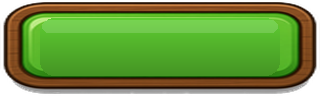
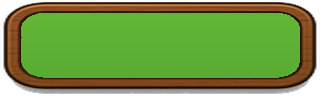
Fix person-card A buttons: single face chrome and 2% live inset
Rebuild chrome as wood rim plus one flat face with no baked labels or
dark lip, and align the live text overlay to wood-inner + 2% on all sides.

Changed region(s): [[0.0625, 0.125, 0.9375, 0.8125]]

diff --git a/docs/mockups/personen-action-card/index.html b/docs/mockups/personen-action-card/index.html
@@ -126,10 +126,17 @@
   .actions .cost-btn:nth-child(3) { grid-column: 6; }
 
   /*
-   * Button füllt die Grid-Zelle 1:1 (kein container-type am Button —
-   * das verhindert Stretch). Innen-Wrapper für dynamische Schrift.
+   * Chrome-PNG: nur Holzrahmen + eine saubere Farbfläche (kein gebackenes Label).
+   * Live-Text im .inner — 2% Abstand zu allen Innenkanten des Holzrahmens.
+   * Holz-Rims müssen zu btn-*-chrome.png passen (siehe Generator).
    */
   .cost-btn {
+    /* Gemessen am Chrome: Innenkante Holzrahmen → Face (eine Fläche, kein Label) */
+    --wood-x: 6.41%;
+    --wood-y-top: 13.54%;
+    --wood-y-bot: 18.75%;
+    /* Live-Text: zusätzlich ~2% der Button-Breite/-Höhe zu allen Innenrändern */
+    --inset: 2%;
     appearance: none;
     border: 0;
     margin: 0;
@@ -146,22 +153,27 @@
     cursor: pointer;
     overflow: hidden;
     display: block;
+    position: relative;
   }
   .cost-btn.kaufen { background-image: url("btn-kaufen-chrome.png"); }
   .cost-btn.upgrade { background-image: url("btn-upgrade-chrome.png"); }
   .cost-btn.senden { background-image: url("btn-senden-chrome.png"); }
 
-  /* Zwei Zeilen: Verb oben, Kosten unten — Holzränder über dicke Chrome-Rims */
+  /* Overlay: Holz-Innenrand + 2% (Breite für L/R, Höhe für T/B) */
   .cost-btn .inner {
-    width: 100%;
-    height: 100%;
+    position: absolute;
+    left: calc(var(--wood-x) + var(--inset));
+    right: calc(var(--wood-x) + var(--inset));
+    top: calc(var(--wood-y-top) + var(--inset));
+    bottom: calc(var(--wood-y-bot) + var(--inset));
     display: flex;
     flex-direction: column;
     flex-wrap: nowrap;
     align-items: center;
     justify-content: center;
-    gap: 0.28em;
-    padding: 18% 16% 16%; /* Text innerhalb der Farbfläche, nicht auf dem Holzrand */
+    gap: 0.3em;
+    margin: 0;
+    padding: 0;
     color: #fff;
     font-weight: 900;
     font-family: inherit;
@@ -169,6 +181,8 @@
     container-type: inline-size;
     font-size: clamp(9px, 12cqw, 14px);
     overflow: hidden;
+    background: transparent; /* kein zweites Farbfeld */
+    box-shadow: none;
   }
   .cost-btn .txt,
   .cost-btn .pay {
@@ -231,9 +245,9 @@
     <a href="compare.html">Vergleich A/B</a>
   </p>
   <p class="note">
-    Grid überall <code>3%·30%·2%·30%·2%·30%·3%</code> → Spalten bündig.
-    Holzrahmen-Chrome mit sichtbaren Holzrändern. Verb oben, Kosten darunter (zwei Zeilen).
-    Schrift dynamisch (<code>cqw</code>); bei schmalen Zellen Kurzlabels.
+    Chrome ohne gebackenes Label — Verb/Kosten nur live. Eine Farbfläche + Holzrahmen
+    (kein gestapeltes Overlay). Live-Text mit <code>2%</code> Abstand zu allen Innenkanten des Holzrahmens.
+    Grid <code>3%·30%·2%·30%·2%·30%·3%</code>, Verb oben / Kosten unten.
   </p>
 
   <div class="stage">
@@ -287,7 +301,7 @@
         </div>
       </article>
       <div class="legend">
-        %-Grid bündig · Holzränder · Verb / Kosten zweizeilig · Schrift dynamisch.
+        Nur Live-Text · 2% Inset vom Holz-Innenrand · eine Farbfläche · zweizeilig.
       </div>
     </div>
   </div>
